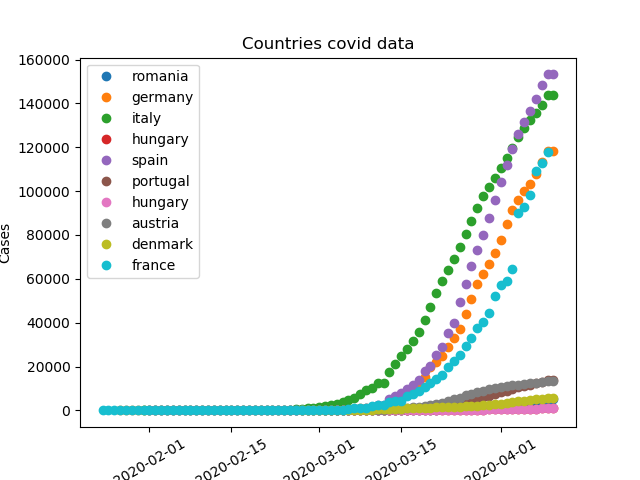
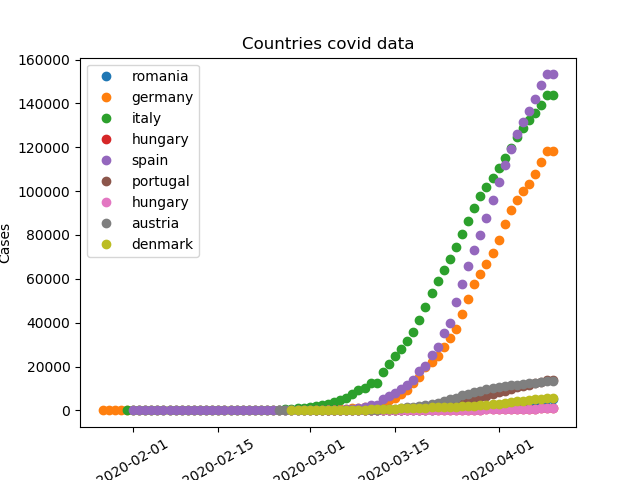
graph data1

diff --git a/covid-data/coviddata.py b/covid-data/coviddata.py
@@ -5,7 +5,7 @@ import traceback
 import requests
 import matplotlib.dates
 import datetime
-countries=["romania","germany","italy","hungary","spain","portugal","hungary","austria","denmark","france"]#,"united-states"]
+countries=["romania","germany","italy","hungary","spain","portugal","hungary","austria","denmark"]#,"france"]#,"united-states"]
 x=[]
 y=[]
 xgrow=[]
